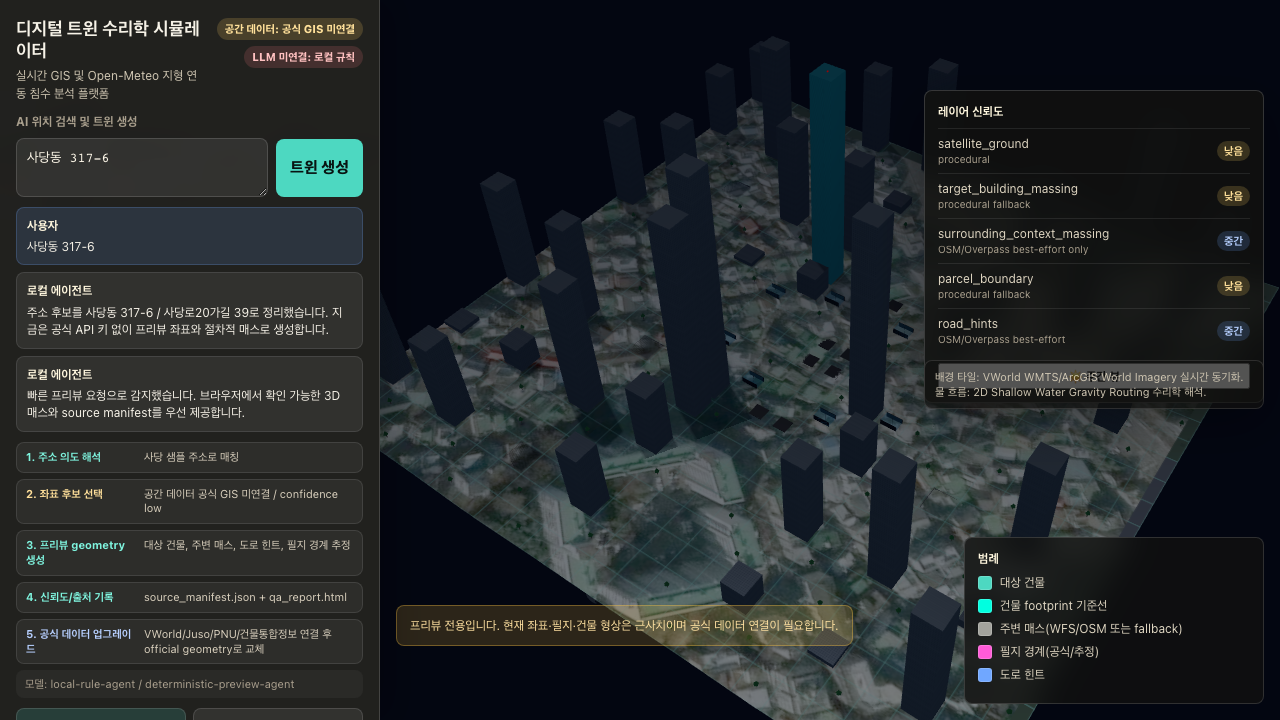
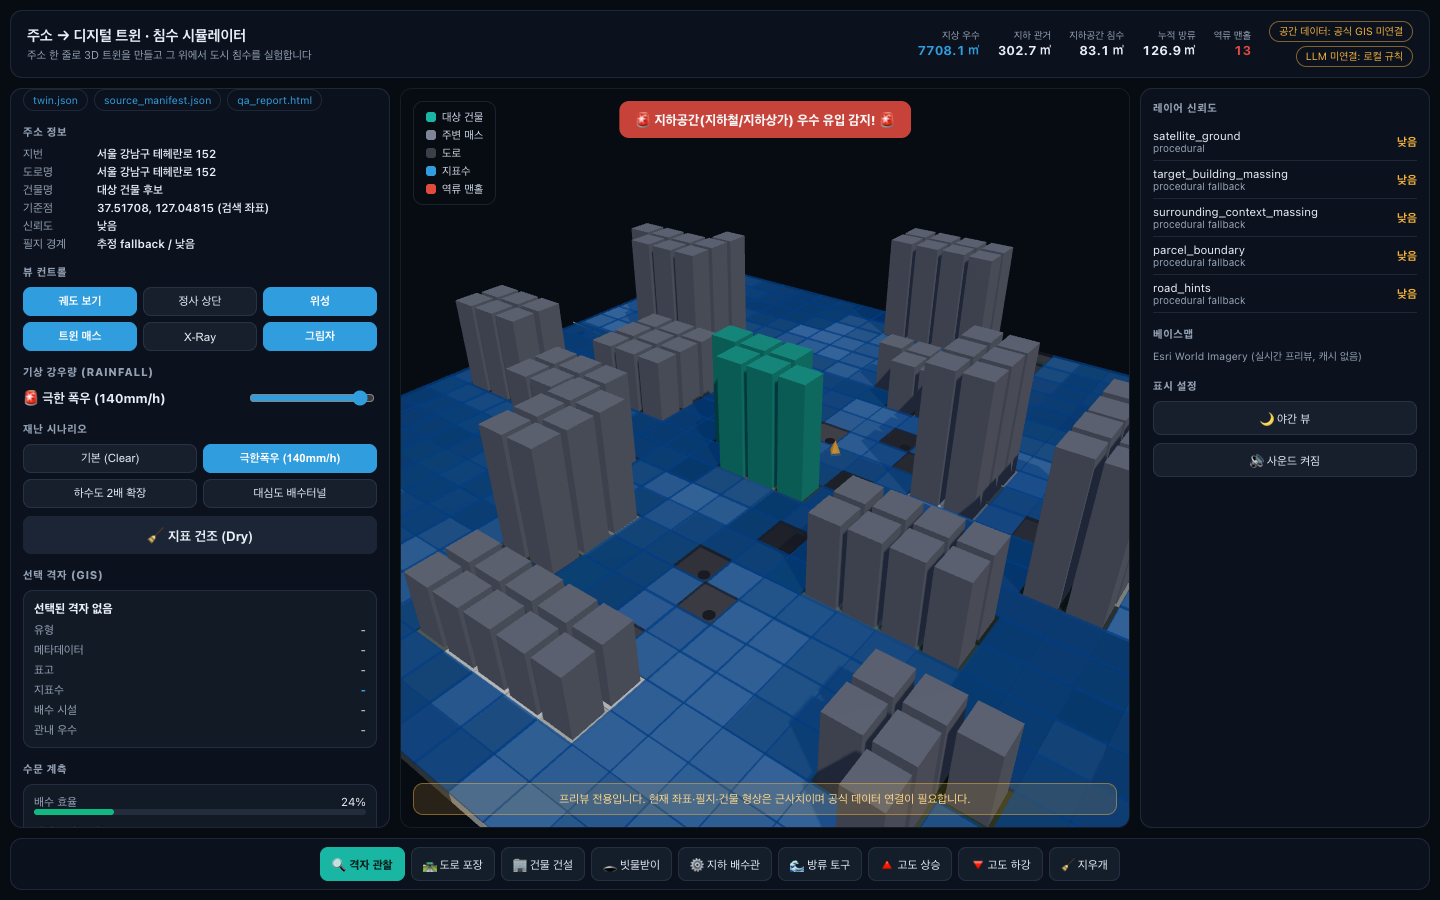
docs: v2 README + live screenshot + regenerated Sadang sample

diff --git a/src/samples/sadang_317_6/preview.html b/src/samples/sadang_317_6/preview.html
@@ -85,7 +85,7 @@
 
     const twin = {
   "project_id": "sadang_317_6",
-  "created_at": "2026-05-26T03:57:10.609Z",
+  "created_at": "2026-06-10T18:03:24.453Z",
   "input": {
     "raw_query": "사당동 317-6번지 디지털 트윈 만들어줘",
     "normalized_address_candidates": [
@@ -134,7 +134,7 @@
   "geocoding": {
     "selected": {
       "provider": "fallback",
-      "request_time": "2026-05-26T03:57:09.526Z",
+      "request_time": "2026-06-10T18:03:22.593Z",
       "address_query": "사당동 317-6번지 디지털 트윈 만들어줘",
       "result_count": 1,
       "selected_lon_lat": [
@@ -820,7 +820,7 @@
 };
     const manifest = {
   "project_id": "sadang_317_6",
-  "generated_at": "2026-05-26T03:57:10.609Z",
+  "generated_at": "2026-06-10T18:03:24.453Z",
   "input": {
     "raw_query": "사당동 317-6번지 디지털 트윈 만들어줘",
     "normalized_address_candidates": [
@@ -845,7 +845,7 @@
   "geocoding": {
     "selected": {
       "provider": "fallback",
-      "request_time": "2026-05-26T03:57:09.526Z",
+      "request_time": "2026-06-10T18:03:22.593Z",
       "address_query": "사당동 317-6번지 디지털 트윈 만들어줘",
       "result_count": 1,
       "selected_lon_lat": [

diff --git a/README.md b/README.md
@@ -1,35 +1,39 @@
-# Address-to-Digital-Twin Preview MVP
+# Address → Digital Twin · Flood Simulator
 
 [![CI](https://github.com/VincentChoi33/address-to-digital-twin-mvp/actions/workflows/ci.yml/badge.svg)](https://github.com/VincentChoi33/address-to-digital-twin-mvp/actions/workflows/ci.yml)
 [![License: MIT](https://img.shields.io/badge/License-MIT-yellow.svg)](LICENSE)
 
-Zero-cash-cost MVP that turns a Korean address into a browser-viewable 3D digital twin preview — and then runs an interactive **urban flood (hydrology) simulation** on top of it. Built with TypeScript, Three.js, and Vite; no paid APIs required.
+Type a Korean address, get a browser-viewable 3D digital twin preview, then run an interactive **urban flood simulation on that twin's buildings and roads**. Zero cash cost: no paid APIs, fully offline-capable. TypeScript + Three.js + Vite.
 
-![Web app: LLM address console (left) and generated 3D twin scene (right)](docs/images/app-screenshot.png)
+**One flow, end to end:** `주소 → 지오코딩(폴백 체인) → 절차적 매싱 → 24×24 수문 격자 래스터화 → 침수 시뮬레이션`. Any address works — out-of-sample addresses get a deterministic offline preview twin generated **client-side**, so the full twin → flood loop runs without a single API key.
 
-*The local web app: a Korean-address LLM console and hydrology dashboard on the left, and the generated scene on the right — satellite-textured ground, building massing, parcel boundary, road hints, with per-layer toggles and a source legend.*
+![Web app](docs/images/app-screenshot.png)
 
 | Static preview export (Sadang sample) | Generated QA / confidence report |
 | :---: | :---: |
-| ![Static 3D preview of the Sadang sample twin](docs/images/twin-preview-sadang.png) | ![Auto-generated QA and confidence report](docs/images/twin-qa-report-sadang.png) |
+| ![Static 3D preview](docs/images/twin-preview-sadang.png) | ![QA report](docs/images/twin-qa-report-sadang.png) |
 
 ## What it does
 
-The project has two cooperating layers:
-
-**1. Address → twin pipeline** (`src/pipeline/`)
+**1. Address → twin pipeline** (`src/core/`, runs in Node and in the browser)
 
 - Normalizes a raw Korean address request into parcel / road / building-name candidates.
-- Geocodes through a graceful fallback chain: Juso → VWorld → Nominatim → deterministic offline coordinates.
-- Generates approximate target-building massing, surrounding context massing (OSM/Overpass best-effort, procedural fallback), parcel boundary, and road hints.
-- Emits four artifacts per address: `twin.json`, `source_manifest.json` (per-layer source + confidence), a human-readable `qa_report.html`, and a standalone `preview.html` (CDN Three.js, opens directly in a browser).
+- Geocodes through a graceful fallback chain: Juso → VWorld → Nominatim → deterministic offline coordinates (Node CLI), or straight to the offline path in the browser.
+- Generates target massing, surrounding context (OSM/Overpass best-effort, seeded procedural fallback), parcel boundary, and road hints.
+- Emits four artifacts: `twin.json`, `source_manifest.json` (per-layer source + confidence), human-readable `qa_report.html`, standalone `preview.html`. In the web app these download as generated blobs for any address.
 
-**2. Interactive viewer + flood simulator** (`src/app/`)
+**2. Hydrology engine** (`src/sim/` — pure TypeScript, no Three.js, fully unit-tested)
 
-- Three.js scene with orbit/orthographic cameras, satellite/X-ray/shadow toggles, and per-layer confidence display.
-- A 24×24 cell shallow-water gravity-routing simulation layered on the twin: rainfall intensity control, surface runoff, sewer inlets, underground pipe network, outfalls, and subway-entrance inundation.
-- Disaster scenario presets (2022 Gangnam flood, doubled sewer capacity, deep drainage tunnel), a city-editor toolbar (pave roads, place buildings/sewers/pipes, raise/lower terrain), live hydrograph chart, gauges, and synthesized sound effects via the Web Audio API.
-- An LLM-style address console: a deterministic local rule agent works fully offline; in deployment, `/api/agent` can call an Ollama-compatible Gemma endpoint (`gemma3:4b` by default) and falls back to the local agent if the model service is unavailable.
+- Rasterizes the twin's buildings/roads into a 24×24 cell grid: seeded terrain slope, sewer inlets along roads, a capacity-limited outfall, underground-space entrances near the target.
+- Shallow-water gravity routing, roof runoff, sewer intake, pipe migration toward the outfall, manhole backflow when the network saturates, underground inundation alarm.
+- Deterministic: same twin in, same simulation out. Stylized demo physics (rainfall is amplified for visible flooding), not SWMM.
+
+**3. Viewer + UI** (`src/render/`, `src/app/`)
+
+- Three.js instanced-mesh city (1 draw call per layer), live satellite drape (ArcGIS/VWorld tile mosaic sampled onto terrain cells), twin massing overlay, orbit/top views, X-ray, shadows, dark/light theme.
+- Disaster scenario presets (극한폭우 140mm/h, 하수도 2배 확장, 대심도 배수터널), rainfall slider, city-editor tools (pave roads, build, place sewers/pipes/outfalls, raise/lower terrain), cell inspector, gauges, rolling hydrograph, synthesized sound (Web Audio).
+- **Graceful degradation:** if WebGL is unavailable the app keeps running in console mode — address analysis and artifact downloads still work, with a clear banner instead of a dead page.
+- LLM-style console: a deterministic local rule agent works fully offline; in deployment `/api/agent` can call an Ollama-compatible Gemma endpoint and the client falls back to the local agent when the server is absent.
 
 > **Not** a survey-grade, cadastral, legal, BIM, or legally authoritative digital twin. Official PNU/parcel/building geometry must replace the preview massing before any production or decision-grade use.
 
@@ -37,22 +41,23 @@ The project has two cooperating layers:
 
 ```bash
 npm install
-npm run sample:sadang   # generate the Sadang sample artifacts
-npm run dev             # open the printed Vite URL
+npm run dev     # open the printed URL
 ```
 
-In the app, try prompts such as:
+Try any Korean address in the console:
 
 ```text
-사당동 317-6번지 디지털 트윈 만들어줘
-서울 동작구 사당로20가길 39 공식 디지털 트윈 만들어줘
-서울 강남구 테헤란로 152 디지털 트윈 프리뷰 만들어줘
+사당동 317-6번지 디지털 트윈 만들어줘          # curated sample
+서울 강남구 테헤란로 152 디지털 트윈 프리뷰    # generated offline, on the spot
+부산 해운대구 우동 1408                        # also works — different terrain, same flow
 ```
 
-Or generate a twin for any address from the CLI:
+Then hit **극한폭우 (140mm/h)** and watch the twin flood: streets pond, pipes pressurize, manholes back up red, and the underground-entrance alarm fires.
+
+CLI generation (adds Juso/VWorld/Nominatim/Overpass when keys/network exist):
 
 ```bash
-npx tsx src/pipeline/runAddressTwin.ts --address "서울 강남구 테헤란로 152"
+npx tsx src/core/runAddressTwin.ts --address "서울 강남구 테헤란로 152"
 ```
 
 ## Commands
@@ -63,45 +68,45 @@ npx tsx src/pipeline/runAddressTwin.ts --address "서울 강남구 테헤란로 
 | `npm run build` | typecheck + production build |
 | `npm test` | unit tests (Vitest) |
 | `npm run lint` | TypeScript check |
-| `npm run sample:sadang` | generate Sadang sample artifacts |
-| `npm run prepare:deploy` | build `dist/` and copy generated samples for deployment |
-
-Open `src/samples/sadang_317_6/preview.html` directly in a browser for the static Three.js export.
+| `npm run sample:sadang` | regenerate Sadang sample artifacts |
+| `npm run prepare:deploy` | build `dist/` + copy samples for deployment |
 
 ## Project structure
 
 ```text
 src/
-  pipeline/          # address → twin generation (runs in Node via tsx)
-    geocode.ts       # Juso/VWorld/Nominatim/offline fallback chain
-    dataConnectors.ts# Overpass/OSM context, lon-lat → local meters
-    generateMassing.ts# target + context massing, roads, parcel boundary
-    manifest.ts      # per-layer source/confidence manifest
-    qa.ts            # human-readable QA/confidence report (HTML)
-    exportStaticHtml.ts# standalone preview.html export
-    runAddressTwin.ts# CLI entry point
-  app/               # browser app (Vite)
-    main.ts          # bootstrap + UI bindings
-    ui.ts            # DOM layout + Korean label helpers
+  core/              # address → twin generation (Node + browser-safe)
+    address.ts       #   pure address parsing + deterministic fallback coords
+    geocode.ts       #   Juso/VWorld/Nominatim chain (Node CLI)
+    previewTwin.ts   #   client-side offline twin generation
+    generateMassing.ts, manifest.ts, qa.ts, exportStaticHtml.ts
+    runAddressTwin.ts#   CLI entry point
+  sim/
+    hydrology.ts     # pure flood engine: rasterize twin → step → tools/scenarios
+  render/
+    scene.ts         # Three.js instanced renderer, WebGL-guarded
+    basemap.ts       # live tile mosaic (ArcGIS/VWorld/custom), no caching
+    sound.ts         # Web Audio synth
+  app/
+    main.ts, ui.ts   # grid-layout UI shell + bindings
     agent.ts         # deterministic local address agent
-    viewer.ts        # Three.js scene + shallow-water flood simulation
-  types/twin.ts      # shared twin/manifest/hydrology types
-  samples/           # committed sample artifacts (Sadang 317-6)
+  types/twin.ts      # shared twin/manifest types
+  samples/           # committed Sadang sample artifacts
 deploy/
   server.py          # zero-dependency static + /api/agent (Ollama/Gemma) server
-  batch_address_qa.py# repeatable address QA batch runner
+  batch_address_qa.py
 ```
 
 ## Deployment with a local model server
-
-`deploy/server.py` serves the built app and exposes `/api/agent`. It calls an Ollama-compatible Gemma endpoint (`GEMMA_MODEL=gemma3:4b` by default) and falls back to a readable warning if the model service is unavailable.
 
 ```bash
 npm run prepare:deploy
 python3 deploy/server.py        # HOST/PORT/OLLAMA_URL/GEMMA_MODEL via env or .env
 ```
 
-On a deployed server with `.env` keys configured, run a repeatable address QA batch:
+`deploy/server.py` serves the built app and exposes `/api/agent` (Gemma via Ollama, `gemma3:4b` default) plus the VWorld tile proxy. The browser falls back to its local agent whenever the server or model is unavailable.
+
+Batch QA on a deployed server:
 
 ```bash
 python3 deploy/batch_address_qa.py addresses.txt --project-id address_batch_20260427
@@ -109,7 +114,7 @@ python3 deploy/batch_address_qa.py addresses.txt --project-id address_batch_2026
 
 ## Optional environment
 
-The MVP runs without any API keys by falling back to Nominatim for occasional manual testing and then deterministic procedural coordinates when network geocoding is unavailable.
+Runs with **zero keys** out of the box (offline deterministic coordinates). Keys only raise fidelity:
 
 ```bash
 cp .env.example .env
@@ -117,63 +122,41 @@ cp .env.example .env
 
 | Variable | Purpose |
 | --- | --- |
-| `VWORLD_API_KEY` | VWorld geocoder + WMTS satellite tiles (key stays server-side; summary only is persisted) |
-| `JUSO_API_KEY` | Juso address normalization (summary only is persisted) |
+| `VWORLD_API_KEY` | VWorld geocoder + WMTS satellite tiles (key stays server-side) |
+| `JUSO_API_KEY` | Juso address normalization (derived summary only is persisted) |
 | `NOMINATIM_USER_AGENT` | occasional manual fallback tests only, not bulk geocoding |
-| `VITE_BASEMAP_MODE` | empty (default) \| `procedural` \| `vworld` \| `arcgis` \| `custom` |
+| `VITE_BASEMAP_MODE` | empty(=arcgis) \| `procedural` \| `vworld` \| `arcgis` \| `custom` |
 | `VITE_CUSTOM_TILE_URL` | e.g. `https://host/{z}/{x}/{y}.png` |
-
-When `VWORLD_API_KEY` is configured on the deployment server, the browser defaults to VWorld satellite preview tiles through `/api/vworld/wmts/Satellite/{z}/{y}/{x}.jpeg`. Tiles are requested live and never cached or persisted.
 
 ## Spatial alignment principle
 
-The preview treats Juso/VWorld geocoding as a search hint, not as the final world origin:
+Geocoding is a search hint, not the world origin:
 
 1. Normalize/search the address with Juso/VWorld.
-2. Use the search coordinate only to fetch candidate WFS parcel, building, and road geometry.
-3. When official WFS parcel geometry is found, re-anchor the local 3D meter frame to the official parcel centroid.
-4. If a parcel is unavailable but official building geometry exists, anchor to the building footprint centroid.
-5. Drape VWorld WMTS satellite imagery onto that cadastral/WFS frame as a live visual texture.
-
-Parcel/building WFS geometry is the alignment authority. Satellite imagery is texture/context only — the MVP never infers legal parcel or building geometry from imagery.
+2. Use the search coordinate only to fetch candidate WFS parcel/building/road geometry.
+3. When official WFS parcel geometry exists, re-anchor the local meter frame to the official parcel centroid; else to the official building footprint centroid.
+4. Satellite imagery is draped as preview texture onto that frame — never used to infer legal geometry.
 
 ## Data source policy
 
-- Default fallback ground is a fully offline procedural grid.
-- VWorld WMTS satellite is the preferred Korean basemap preview when configured; the app proxies live tiles without exposing the key or caching imagery.
-- ArcGIS World Imagery is optional preview-only live tile display with visible attribution and no caching.
-- Custom tile URLs must be checked against the provider terms.
-- Juso/VWorld responses are never persisted raw; only derived summaries land in `source_manifest.json`.
-- Nominatim is used only for occasional manual preview fallback, with a custom User-Agent and 1 request/sec behavior.
-- Overpass/OSM context is best-effort only; on failure, procedural surrounding buildings and road hints are generated.
-- Overture Maps is intentionally a future connector placeholder; this MVP downloads no Overture datasets.
-
-## Bundled sample
-
-Offline Sadang approximation (`src/samples/sadang_317_6/`):
-
-- Parcel address: `서울 동작구 사당동 317-6` / road candidate: `서울 동작구 사당로20가길 39`
-- Approximate coordinate: `37.48420, 126.96975`, confidence `low`
-
-The manifest explicitly marks approximate layers, and the QA report explains what requires official verification.
+- Default ground is fully offline; satellite tiles (VWorld/ArcGIS/custom) are live preview-only with attribution and **no caching or persistence**.
+- Juso/VWorld raw responses are never persisted — only derived summaries in `source_manifest.json`.
+- Nominatim: occasional manual fallback only, custom User-Agent, 1 req/sec.
+- Overpass/OSM context is best-effort; on failure, seeded procedural context is generated.
+- Overture Maps remains a future connector placeholder (no dataset downloads).
 
 ## Testing & CI
 
-Unit tests (Vitest) cover the deterministic core: address candidate normalization, the local agent, massing generation, manifest/QA report building, and coordinate math. GitHub Actions runs typecheck → tests → build → an offline sample-pipeline smoke on every push and PR.
-
-```bash
-npm test
-```
+59 Vitest tests cover the deterministic core: address normalization, offline twin generation, massing, manifest/QA building (incl. XSS escaping), and the full hydrology engine (rasterization, downhill flow, sewer/outfall mass balance, manhole backflow, scenario effects, editor tools, determinism). GitHub Actions runs typecheck → tests → build → offline sample smoke on every push/PR.
 
 ## Upgrade path
 
-1. Juso normalization: normalize parcel/road address and reduce ambiguity.
-2. VWorld geocoding: raise coordinate confidence and record selected candidate summary.
-3. Parcel boundary: resolve PNU and fetch official cadastral geometry.
-4. GIS building integrated info: replace fallback massing with official footprint, floors, height, use, and registry attributes.
-5. AI3DAP/SolidRecon adapter: generate higher-detail roof/mesh/texture geometry from official inputs and imagery.
-6. 3D Tiles/Cesium export: stream official LOD1/LOD2 outputs for web-scale city viewing.
-7. QA/confidence dashboard: compare official sources, flag mismatches, and separate preview/official deliverables.
+1. Juso/VWorld keys → coordinate confidence.
+2. PNU resolution → official cadastral parcel boundary.
+3. GIS building integrated info → replace procedural massing with official footprints/heights.
+4. DEM-backed terrain for the flood grid (replace seeded slope with real elevation).
+5. AI3DAP/SolidRecon adapter → higher-detail roof/mesh/texture geometry.
+6. 3D Tiles/Cesium export → web-scale city viewing.
 
 ## License
 
